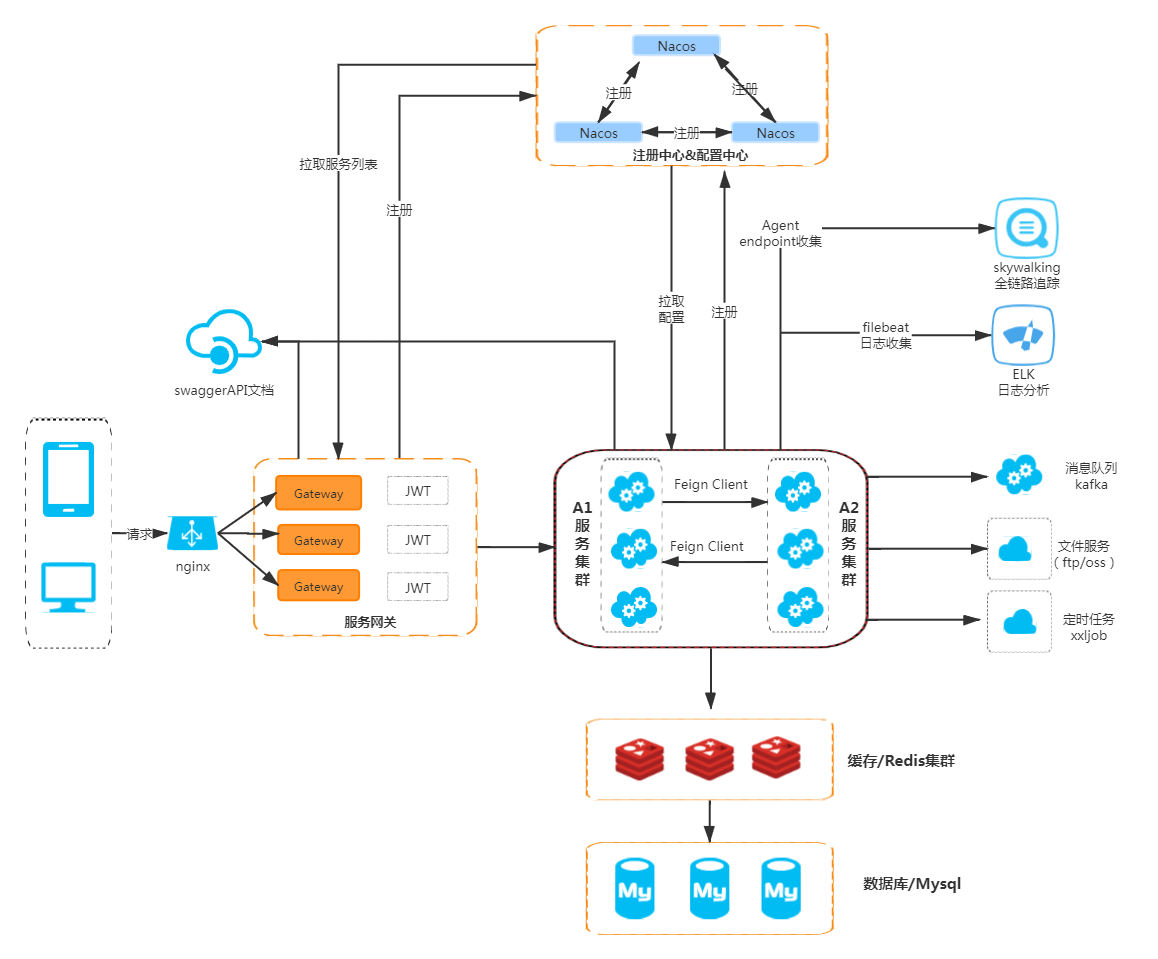
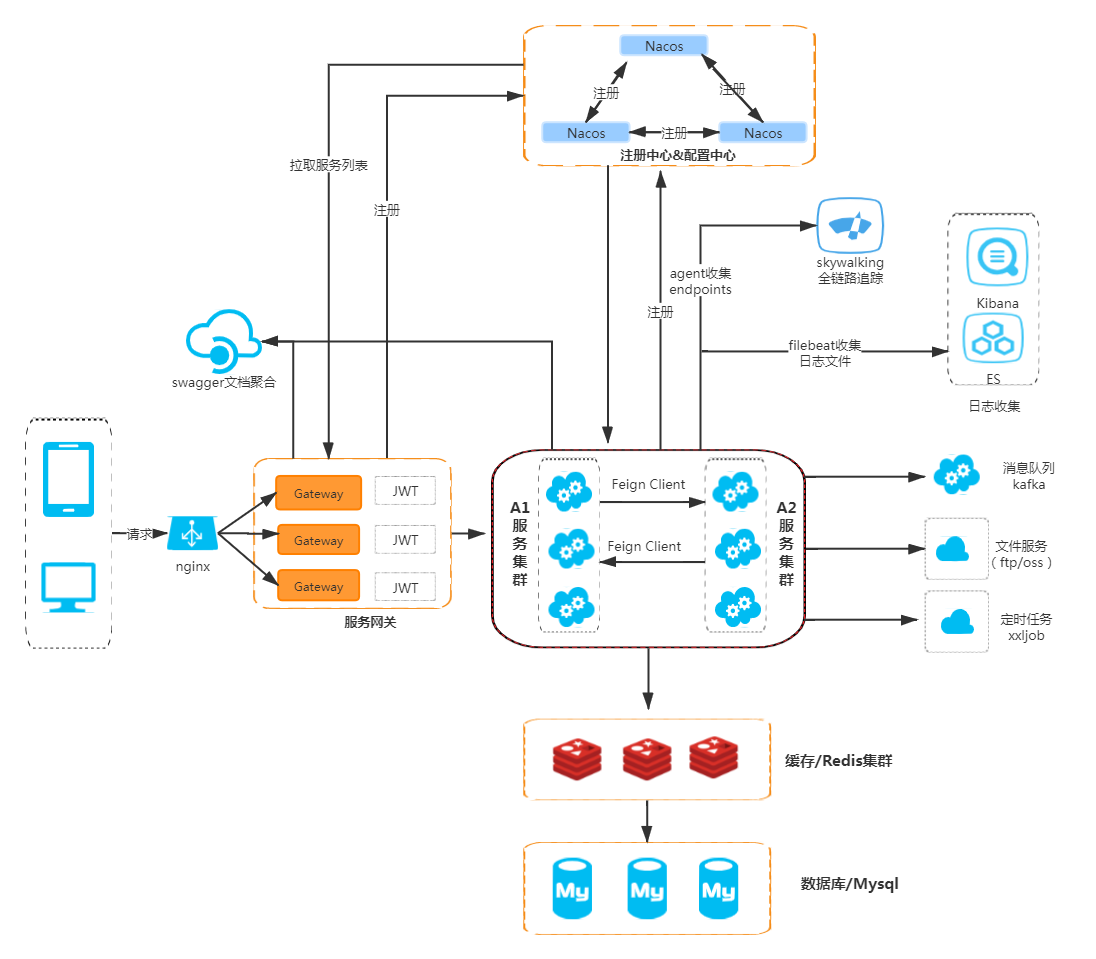
更新架构图

diff --git a/README.md b/README.md
@@ -4,7 +4,7 @@
 
 本项目是一个前后端分离的管理系统，采用当前流行的技术开发，后端使用SpringBoot2.1，SpringCloud，结合Mybatis-plus，Redis，Kafka...等常用组件,前端采用React，Redux，Ant design构建的单页应用
 
-* 线上项目 http://118.178.254.170/
+* 线上项目 http://118.178.254.170/ (如果访问不了就是服务器到期了)
 * 目前已实现用户管理及授权管理，做到按钮级的动态权限控制
 
 #### 架构图
@@ -14,17 +14,17 @@
 #### 项目结构
 
 springboot-admin  
-├── access-management  -- 权限管理，包含用户角色资源等  
-├── base-common -- 工具类等公用  
-├── gateway -- 基于Spring Cloud Gateway的微服务API网关服务  
-├── file-storage -- 文件服务，支持local/ftp/fastdfs  
-├── parent -- maven pom依赖版本管理  
+├── admin-system  -- 权限管理，包含用户角色资源等  
+├── admin-common -- 工具类等公用  
+├── admin-gateway -- 基于Spring Cloud Gateway的微服务API网关服务  
+├── admin-file-storage -- 文件服务，支持local/ftp/fastdfs  
+├── admin-parent -- maven pom依赖版本管理  
 └── web-client -- 前端演示项目  
 
 #### 如何运行
 
 * 后端:
-      注册中心需自行搭建，调整各个服务中的bootstrap.yml文件，分别启动 gateway，access-management，如果需要debug可以访问 localhost:{port}/swagger-ui.html
+      注册中心需自行搭建，调整各个服务中的bootstrap.yml文件，分别启动 admin-gateway，admin-system，如果需要debug可以访问 localhost:{port}/swagger-ui.html
 * 前端:  
   * 1.执行 yarn install 安装依赖  
   * 2.调整 webpack.dev.js 中的代理地址为后端网关地址
